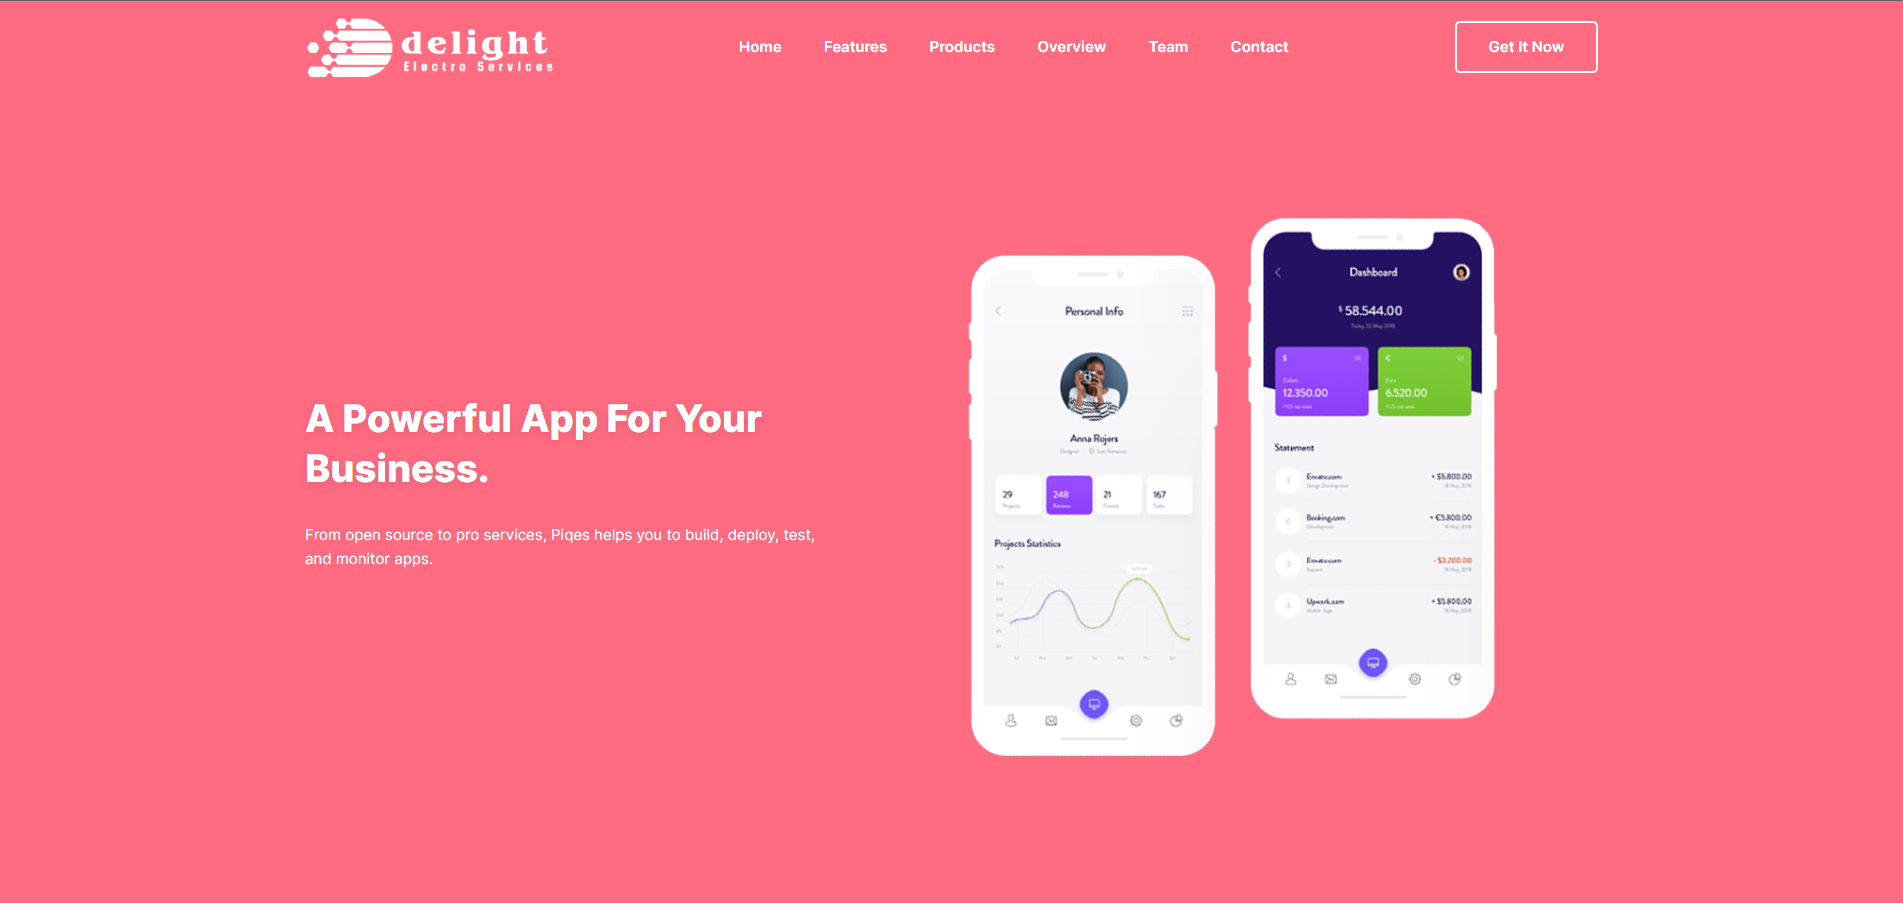
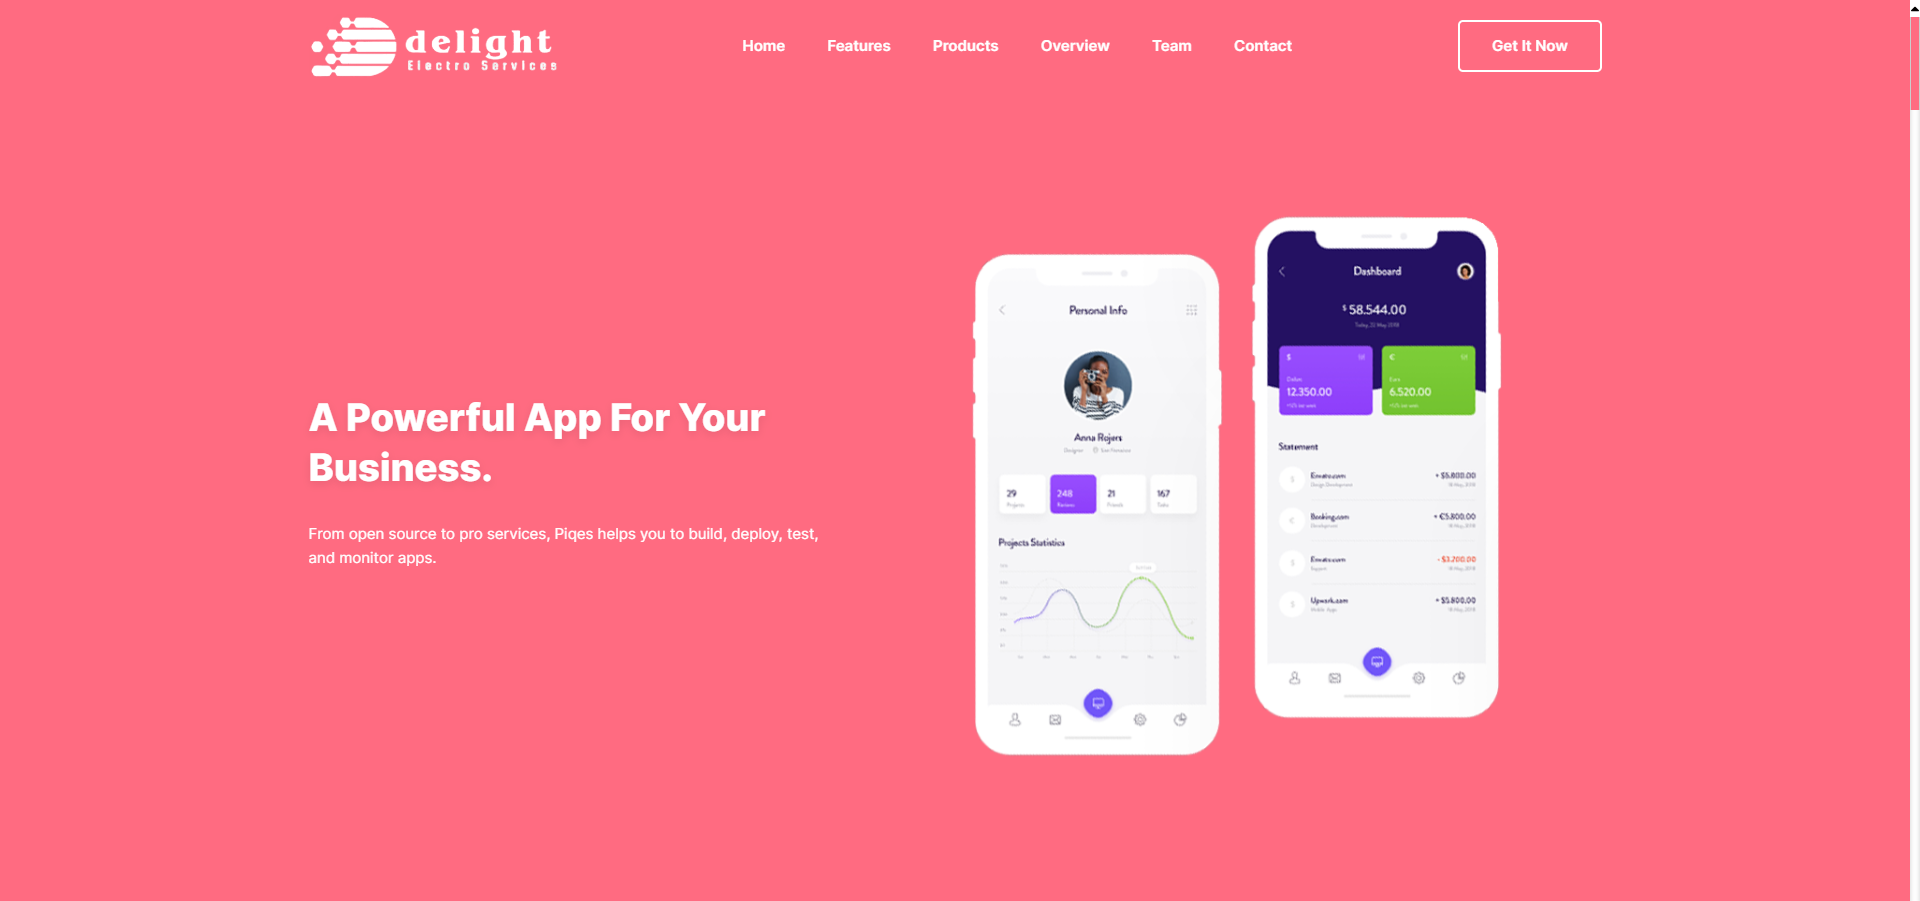
scrollbar styling

diff --git a/assets/css/main.css b/assets/css/main.css
@@ -26,6 +26,64 @@ body {
     font-size: 15px
 }
 
+::-webkit-scrollbar {
+    width: 10px;
+}
+
+::-webkit-scrollbar-track {
+    box-shadow: inset 0 0 5px #ccc;
+    border-radius: 8px;
+}
+
+::-webkit-scrollbar-thumb {
+    background-color: var(--primary);
+    border-radius: 0;
+    border-left: 1px solid #ccc;
+    border-right: 1px solid #ccc;
+}
+
+::-webkit-scrollbar-thumb:hover {
+    background-color: var(--primary);
+}
+
+/* ::-webkit-scrollbar-button {
+    background: #007aff;
+} */
+/* Buttons */
+::-webkit-scrollbar-button {
+    display: block;
+    background-color: #fff;
+    background-repeat: no-repeat;
+    background-size: 80%;
+    background-position: center;
+}
+
+::-webkit-scrollbar-button:vertical:start:increment {
+    display: none;
+}
+/* up arrow */
+::-webkit-scrollbar-button:vertical:start:decrement {
+    background-image: url('https://cdn-icons-png.flaticon.com/512/64/64589.png');
+}
+/* down arrow */
+::-webkit-scrollbar-button:vertical:end:increment {
+    background-image: url('https://cdn-icons-png.flaticon.com/512/25/25243.png');
+}
+
+::-webkit-scrollbar-button:vertical:end:decrement {
+    display: none;
+}
+
+/* ::-webkit-scrollbar-corner {
+    background: transparent;
+    width: 0;
+    height: 0;
+    border-left: 16px solid #8B7E79;
+    border-top: 16px solid #8B7E79;
+    border-bottom: 16px solid transparent;
+    border-right: 16px solid transparent;
+} */
+
 p {
     margin: 0;
     padding: 0;
@@ -63,6 +121,7 @@ button:focus,
 
 select {
     -webkit-writing-mode: horizontal-tb !important;
+    writing-mode: horizontal-tb !important;
     text-rendering: auto;
     color: #081828;
     letter-spacing: normal;
@@ -4026,7 +4085,7 @@ blockquote span {
 @media only screen and (min-width:768px) and (max-width:991px),
 (max-width:767px) {
     .team .single-team .text {
-        text-align: center
+        text-align: center;
     }
 }
 
